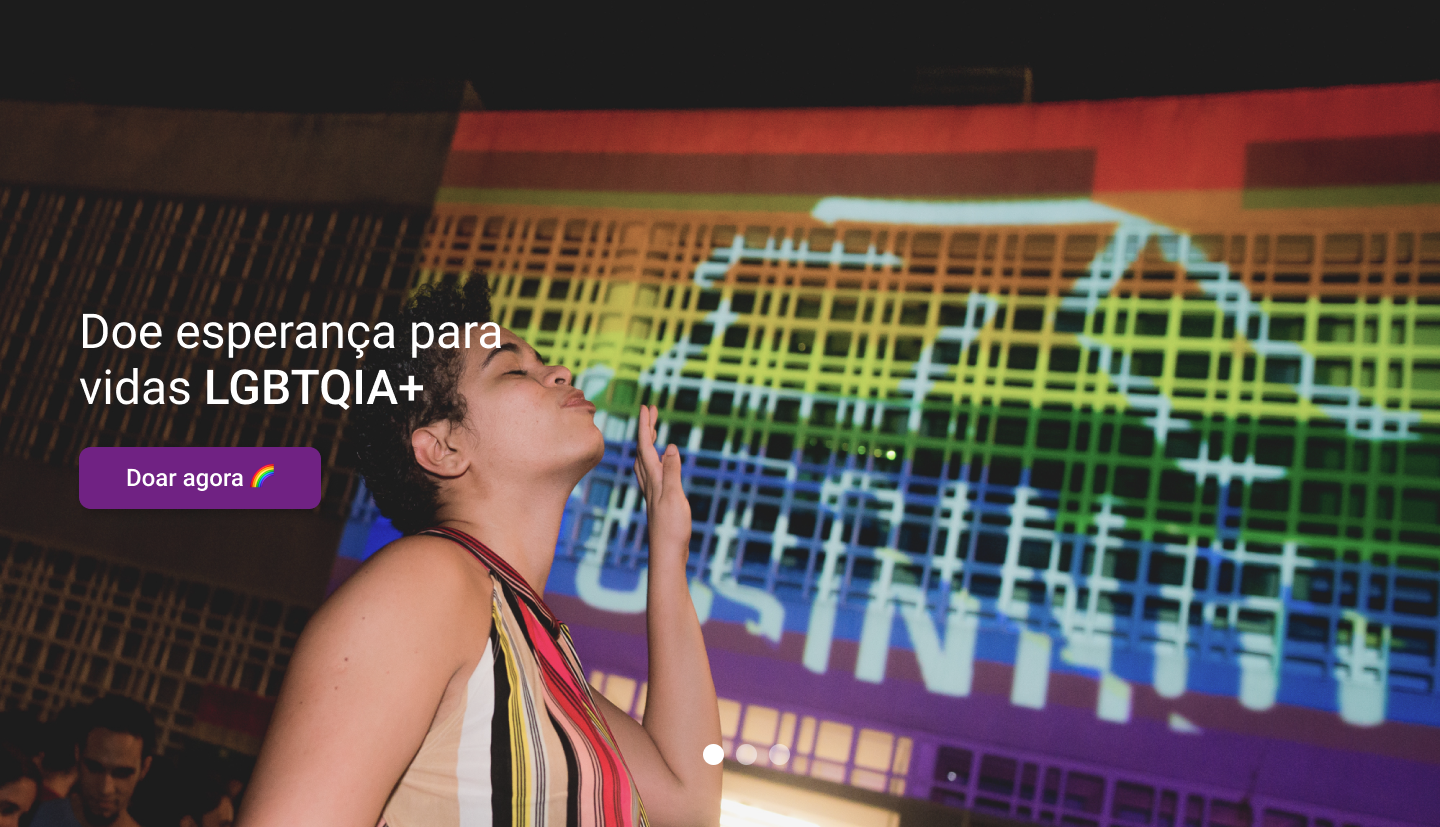
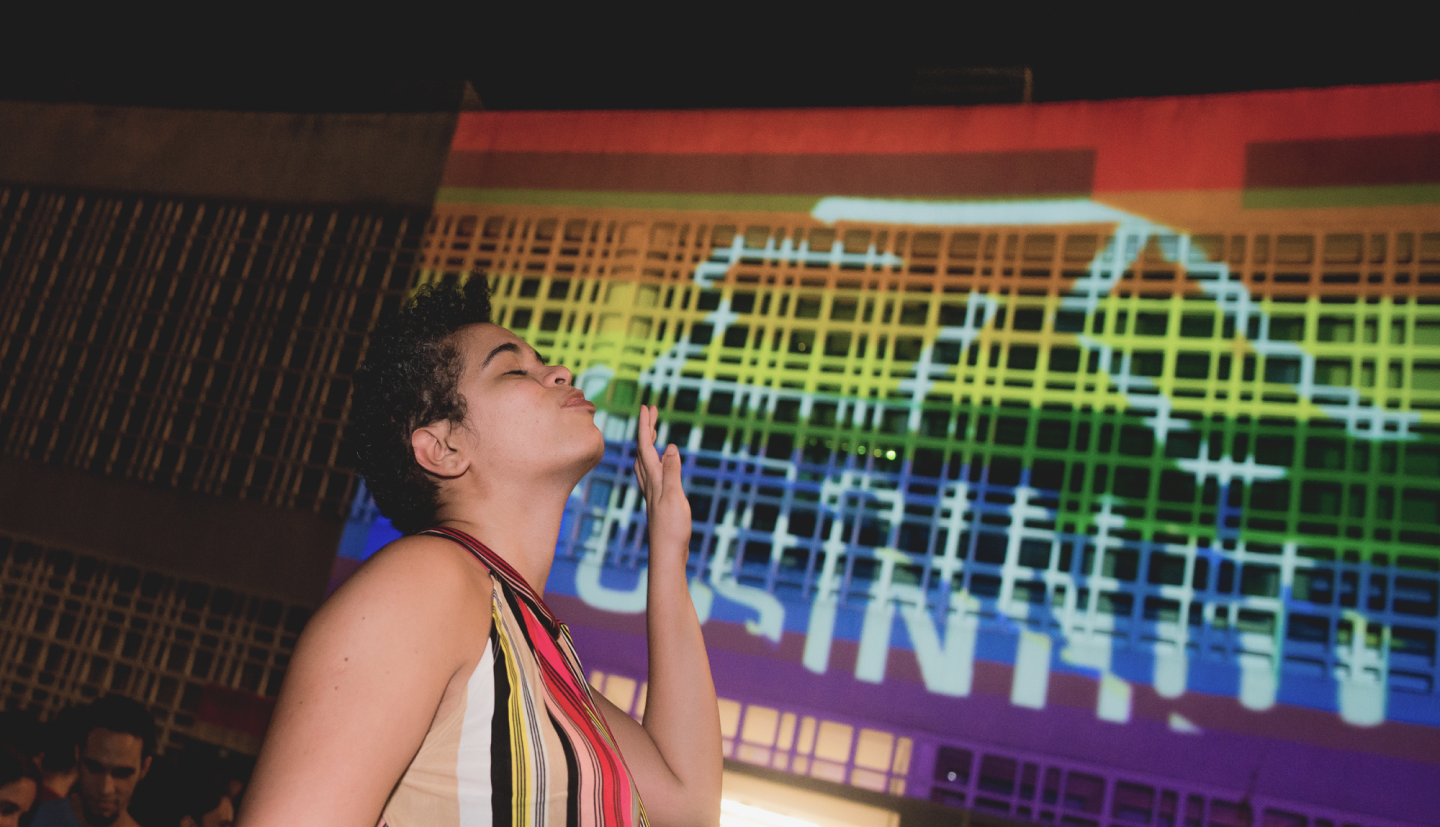
botão e frase adicionados à imagem

Changed region(s): [[0.0312, 0.3628, 0.375, 0.6348], [0.4688, 0.9069, 0.5625, 0.9371]]

diff --git a/home/index.css b/home/index.css
@@ -1,14 +1,28 @@
+/* Variáveis */
+:root {
+  --primary-font: "Roboto", sans-serif;
+  --primary-color: #702283;
+}
+
+/* Informações do Body */
 body {
-  font-family: "Roboto", sans-serif;
+  font-family: var(--primary-font);
   font-weight: 400px;
 }
+
+/* Header principal */
 .header {
   display: flex;
   width: 100%;
   height: 207px;
-  background: linear-gradient(180deg, rgb(255, 247, 231) 12%, rgb(255,255,255) 100%);
+  background: linear-gradient(
+    180deg,
+    rgb(255, 247, 231) 12%,
+    rgb(255, 255, 255) 100%
+  );
 }
 
+/* Logo roxa do header */
 .icon-logo {
   width: 40%;
   height: 207px;
@@ -16,6 +30,7 @@ body {
   padding-left: 50px;
 }
 
+/*Links da Header */
 .link {
   width: 60%;
   display: flex;
@@ -32,15 +47,53 @@ a {
 
 a:hover {
   color: #702283;
+  cursor: pointer;
 }
 
+/* Link ativado da header */
 .inicio {
   font-family: "Roboto", sans-serif;
   font-weight: bold;
   color: #702283;
 }
 
-.banner {
+/*Imagem principal*/
+.imagem {
+  background-image: url("../img/banner.png");
   width: 100%;
-  height: 1000px;
+  height: 827px;
+}
+
+/* Botão dentro da imagem*/
+.botao {
+  font-family: "Roboto", sans-serif;
+  background-color: #702283;
+  color: white;
+  padding: 10px 20px;
+  border: 3px solid #702283;
+  box-shadow: 4px 4px 13px rgba(0, 0, 0, 0.23);
+  border-radius: 12px;
+  height: 62px;
+  width: 242px;
+  font-weight: 500;
+  font-size: 24px;
+  line-height: 28px;
+}
+
+.botao:hover {
+  cursor: pointer !important;
+}
+
+/*Div e frase dentro da imagem*/
+.doe {
+  color: white;
+  font-family: "Roboto", sans-serif;
+  font-weight: 400;
+  font-size: 48px;
+}
+
+.infos {
+  margin-left: 60px;
+  position: absolute;
+  margin-top: 280px;
 }

diff --git a/home/index.html b/home/index.html
@@ -26,11 +26,12 @@
                 <a href="#" target="_blank">Contato</a>
             </div>
         </div>
-        <img class="banner" src='../img/banner.png'></img>
-
-
-
-
+        <div class="imagem">
+            <div class="infos">
+            <p class="doe">Doe esperança para<br> vidas LGBTQIA+</p>
+            <a class='link-botao' href="#"><button class="botao">Doar agora🌈</button></a>
+        </div>
+        </div>
 
     </body>
 </html>
